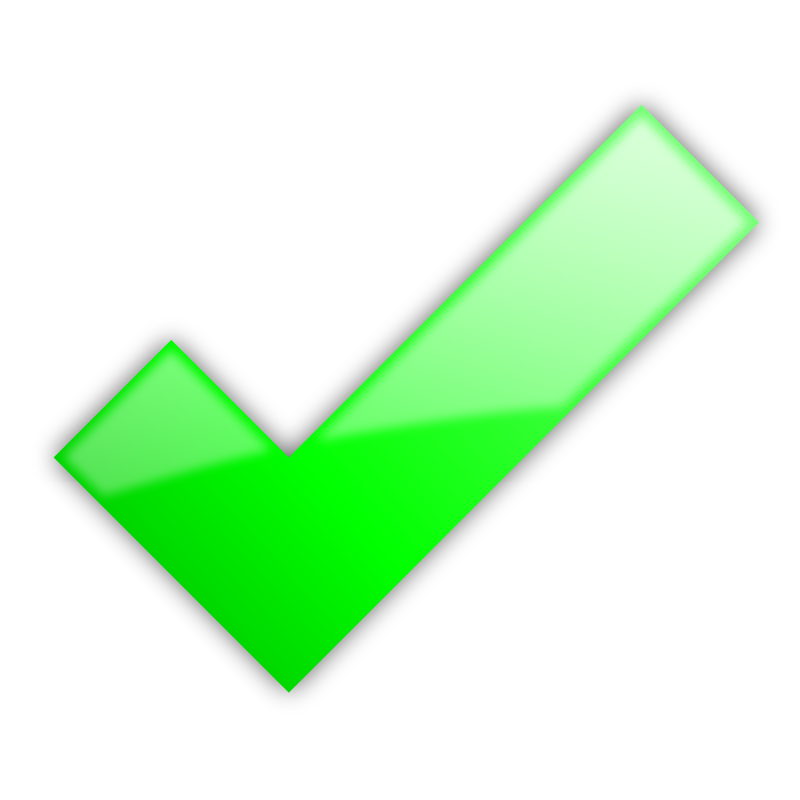
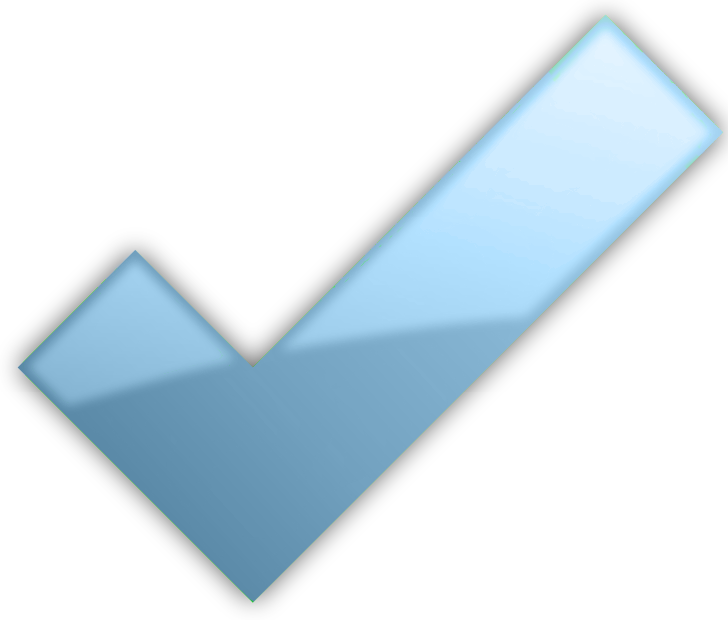
cambios esteticos
cambios esteticos
-CAMBIO EN EL EMAIL A EPB X EL MIO !!!

diff --git a/enviarDatosAcuerdo.php b/enviarDatosAcuerdo.php
@@ -13,9 +13,13 @@ $nombre=$_GET['nombre'];
       $mail = new PHPMailer();
       $mail->Host = "localhost";
       $mail->IsHTML(true);
-        
-      $cuerpo  = "
-      <table style='background-color: #f3f3ff;border: 5px solid #909090;font-size:1rem;margin-left: auto;margin-right: auto;'>
+      
+      $cuerpo =   "<img src='http://www.deudaonline.com.ar/imagenes/logo.png' style='width:300px;margin-left:auto;margin-right:auto;display:block'>
+  <h2 style='text-align:center;font-family:verdana;color:grey;font-weight: 100;'>ACTIVASTE TU ACUERDO DE PAGO <br> ".strtoupper($pauta)."</h2>";
+
+
+      $cuerpo  .= "
+      <table style='font-size:1rem;margin-left: auto;margin-right: auto;font-family:arial;border-radius:10px;background-color: #f3f3ff;border:30px solid #f3f3ff '>
       <tr>
       <td style='text-align: center;'>
       ";
@@ -30,7 +34,7 @@ $nombre=$_GET['nombre'];
                     <br>
                     Entidad: <b>0420</b>
                     <br>
-                    Nro de referencia de pago:<b>".$acree."</b>
+                    Nro de referencia de pago:<b>".$dni."</b>
                     <br>
                     <br>
                     ";
@@ -41,17 +45,16 @@ $nombre=$_GET['nombre'];
 
                   $cuerpo  .= "
                   <tr>
-                  <td style='text-align: center;border-top: 1px solid #a5a2a2;'>
+                  <td style='text-align: center;'>
                   ";
 
                   $cuerpo .="
                   <br>
-                  Los datos de su acuerdo de pago son: <br /> <br />    
-                  <b>Nombre y Apellido:</b> " . $nombre . "<br><br />
-                  <b>DNI:</b> " . $dni . "<br><br />
-                  <b>Teléfono:</b> " . $telefono . "<br><br />
+                  <b>Nombre y Apellido:</b> " . $nombre . "<br>
+                  <b>DNI:</b> " . $dni . "<br>
+                  <b>Telefono:</b> " . $telefono . "<br>
                   <b>Acuerdo de pago:</b> " . $pauta . "<br><br />
-                  <b>DEBE PRESIONAR EL BOTON CONFIRMAR PARA FINALIZAR LA VALIDACIÓN DEL ACUERDO:</b><br/><br/>";
+                  ";
 
                   $cuerpo .= '<b><span style="display:inline-block; background:#1a9cd6; border-radius:3px; color:#FFF; padding:10px 15px;"><a style="color:#FFF; text-decoration:none;" href="http://www.legioncreativa.com/test/deuda_online/confirmar_acuerdo.php?dni='.$dni.'&nombre='.$nombre.'&pauta='.$pauta.'&acree='.$acree.'&tel='.$telefono.'&email='.$email.'">HAGA CLICK AQUI PARA CONFIRMAR SU ACUERDO</a></span></b><br>';
                  
@@ -67,6 +70,12 @@ $nombre=$_GET['nombre'];
 
                   $cuerpo .="
                   </table>";
+
+
+                  $cuerpo .="<div class='pago_10dias text-center center-block' style='width:100%;color: grey;font-size: 20px;
+        text-align: center;font-family:verdana'>
+        EL PAGO DEBE REALIZARSE DENTRO DE LAS  PROXIMAS 72 HS <br> PARA DARLE VIGENCIA A LA OPCION  ELEGIDA
+      </div>";
                   break;
 
 
@@ -75,7 +84,6 @@ $nombre=$_GET['nombre'];
                   <a><img src="https://www.deudaonline.com.ar/imagenes/quiero_pagar/1.png" alt="" style="margin-left: auto;margin-right: auto;display: block;" /></a>
                   <p style=" text-align: center;"class="leyenda_ts">Debe dirigirse a cualquier PAGO FÁCIL.<br />
                   Indicarle al cajero que hace un <strong>PAGO A EPBCOM2050 <br/>
-                  <span class="pago_10dias">PLAN VÁLIDO SOLO POR 10 DÍAS CORRIDOS</span></strong></p>
                   <a class="fancybox" href="#medio_111"><img src="imagenes/quiero_pagar/1.png" alt="" /></a>
                        
                  ';
@@ -87,16 +95,14 @@ $nombre=$_GET['nombre'];
 
                   $cuerpo .= "
                   <tr>
-                  <td style='text-align: center;border-top: 1px solid #a5a2a2;'>";
+                  <td style='text-align: center;'>";
 
                   $cuerpo .="
                   <br>
-                  Los datos de su acuerdo de pago son: <br /><br>     
-                  <b>Nombre y Apellido:</b> " . $nombre . "<br><br>
-                  <b>DNI:</b> " . $dni . "<br><br>
-                  <b>Teléfono:</b> " . $telefono . "<br><br>
+                  <b>Nombre y Apellido:</b> " . $nombre . "<br>
+                  <b>DNI:</b> " . $dni . "<br>
+                  <b>Teléfono:</b> " . $telefono . "<br>
                   <b>Acuerdo de pago:</b> " . $pauta . "<br><br>
-                  <b>DEBE PRESIONAR EL BOTON CONFIRMAR PARA FINALIZAR LA VALIDACIÓN DEL ACUERDO:</b><br><br>
                   <b><span style='display:inline-block; background:#1a9cd6; border-radius:3px; color:#FFF; padding:10px 15px;'><a style='color:#FFF; text-decoration:none;' href='http://www.legioncreativa.com/test/deuda_online/confirmar_acuerdo.php?dni=".$dni."&nombre=".$nombre."&pauta=".$pauta."&acree=".$acree."&tel=".$telefono."&email=".$email."'>HAGA CLICK AQUI PARA CONFIRMAR SU ACUERDO</a></span></b><br>
                   ";
                  
@@ -105,12 +111,17 @@ $nombre=$_GET['nombre'];
                   </td>
                   </tr>";
 
-                
+                  
 
 
                   $cuerpo .="
                   </tr>
                   </table>";
+
+                  $cuerpo .="<div class='pago_10dias text-center center-block' style='width:100%;color: grey;font-size: 20px;
+                  text-align: center;font-family:verdana'>
+                  PLAN VALIDO SOLO POR 10 DÍAS CORRIDOS
+                </div>";
 
 
                   break;
@@ -128,13 +139,11 @@ $nombre=$_GET['nombre'];
                   </td>
                   </tr>
                   <tr style='text-align:center'>
-                  <td style='border-top: 1px solid #cecece;padding: 20px;'>
-                  Los datos de su acuerdo de pago son: <br /><br />      
-                  <b>Nombre y Apellido:</b> " . $nombre . "<br><br /> 
-                  <b>DNI:</b> " . $dni . "<br><br /> 
-                  <b>Teléfono:</b> " . $telefono . "<br><br /> 
-                  <b>Acuerdo de pago:</b> " . $pauta . "<br><br /> 
-                  <b>DEBE PRESIONAR EL BOTON CONFIRMAR PARA FINALIZAR LA VALIDACIÓN DEL ACUERDO:</b><br/><br/><br/>
+                  <td style='padding: 20px;'>
+                  <b>Nombre y Apellido:</b> " . $nombre . "<br> 
+                  <b>DNI:</b> " . $dni . "<br>
+                  <b>Teléfono:</b> " . $telefono . "<br>
+                  <b>Acuerdo de pago:</b> " . $pauta . "<br> <br>
                   <b><span style='display:inline-block; background:#1a9cd6; border-radius:3px; color:#FFF; padding:10px 15px;'><a style='color:#FFF; text-decoration:none;' href='http://www.legioncreativa.com/test/deuda_online/confirmar_acuerdo.php?dni=".$dni."&nombre=".$nombre."&pauta=".$pauta."&acree=".$acree."&tel=".$telefono."&email=".$email."'>HAGA CLICK AQUI PARA CONFIRMAR SU ACUERDO</a></span></b><br>
 
                   ";
@@ -149,6 +158,12 @@ $nombre=$_GET['nombre'];
                   $cuerpo .="
             
                   </table>";
+
+
+                   $cuerpo .="<div class='pago_10dias text-center center-block' style='width:100%;color: grey;font-size: 20px;
+                  text-align: center;font-family:verdana'>
+                  TIENE TIEMPO HASTA EL 29 DEL MES CORRIENTE PARA ABONAR
+                </div>";
 
 
                   break;

diff --git a/mostrar_aceptacion.php b/mostrar_aceptacion.php
@@ -131,28 +131,9 @@ $partes=explode(" ", $_POST['pauta']);
 $monto_a_pagar=$partes[4]*1;
 
 ?>
-	<ul class="paso-a-paso center-block text-center">
-            <li >
-          <div class="paso  arrow_box">
-          <p><strong>PASO 1 <br> ELIJA SU PLAN </strong></p>  
-          </div>
-                
-
-              </li>
-              <li class="active">
-                 <div class="paso  active_arrow_box">
-                    <p><strong>PASO 2 <br> INGRESE  SUS DATOS  <br> </strong></p>  
-                    </div>
-
-              </li>
-              <li>
-                <div class="paso  arrow_box">
-                    <p><strong>PASO 3 <br> CONFIRME EL ACUERDO  DESDE SU E-MAIL </strong></p>  
-                  </div>
-
-              </li>
-            </ul>           
-    <div class="col-sm-12 nombre_deudor"><?php echo $response->nombre; ?></div>
+	            <img src="imagenes/quiero_pagar/pasoApaso2.png" class="paso-a-paso center-block" style='width:800px;padding-bottom:30px'>         
+         
+    <div class="col-sm-12 nombre_deudor"><?php ?></div>
      <div class="col-sm-12 text-center acuerdo"><strong>Seleccionó el acuerdo:<br/> <?php  echo $_POST['pauta']; ?></strong></div>
       <div class="titulos_pagar">MÉTODOS DE PAGO</div>
       
@@ -160,7 +141,18 @@ $monto_a_pagar=$partes[4]*1;
       
      
 		<?php
-        switch($acreedor->mostrarAcreedor($_POST['posicion'])){
+    echo "<div class='nombre_deudor'>
+    <h2>
+    ";
+    echo $response->nombre; 
+    
+    echo "
+    </h2>
+    </div>
+    ";
+
+    echo "<h2><strong>Seleccionó el acuerdo: <br/>".$_POST['pauta']."</strong></h2>";
+     /*   switch($acreedor->mostrarAcreedor($_POST['posicion'])){
             
             case "TARSHOP":{
 				?>
@@ -225,7 +217,7 @@ Indicarle al cajero que hace un <strong>PAGO A EPBCOM2050 <br/>
                 <?php
             }
             break;
-        }
+        }*/
         ?>
   
       

diff --git a/api2/index.php b/api2/index.php
@@ -100,30 +100,10 @@ a:hover
 			if($response && $response->status != 'OK') {
 				 echo '<h1 style="color: red">'.$response->status.'</h1>';
 			}
-			if($response && $response->status == 'OK') :		?>
-
-			<ul class="paso-a-paso center-block text-center">
-            <li class="active">
-          <div class="paso active  active_arrow_box">
-          <p><strong>PASO 1 <br> ELIJA SU PLAN </strong></p>  
-          </div>
-                
-
-              </li>
-              <li >
-                 <div class="paso  arrow_box">
-                    <p><strong>PASO 2 <br> INGRESE  SUS DATOS  <br> </strong></p>  
-                    </div>
-
-              </li>
-              <li>
-                <div class="paso  arrow_box">
-                    <p><strong>PASO 3 <br> CONFIRME EL ACUERDO  DESDE SU E-MAIL </strong></p>  
-                  </div>
-
-              </li>
-            </ul>  
-            <img src="../imagenes/quiero_pagar/pasoApaso.png" class="paso-a-paso">         
+			if($response && $response->status == 'OK') :		?> 
+	            <img src="../imagenes/quiero_pagar/pasoApaso2.png" class="paso-a-paso center-block" style='width:800px;padding-bottom:30px'>
+	            <img src="../imagenes/quiero_pagar/pasoApaso3.png" class="paso-a-paso center-block" style='width:800px;padding-bottom:30px'>
+	            <img src="../imagenes/quiero_pagar/pasoApaso5.png" class="paso-a-paso center-block" style='width:800px;padding-bottom:30px'>         
             	<div class="col-sm-12"><span class="hf_tabla"><?php  echo $response->nombre; ?></span></div>
 				<div class="col-sm-12 text-center" style="font-size: 16px; color:#404041; margin-bottom: 20px;"><b>
                 El detalle de su deuda<br />al día de la fecha es el siguiente: </b></div>

diff --git a/confirmar_acuerdo.php b/confirmar_acuerdo.php
@@ -194,7 +194,7 @@ $email=$_GET['email'];
       $mail->From = "info@c1250353.ferozo.com";
       $mail->FromName = "Deuda Online";
       $mail->Subject = "Confirmacion de acuerdo de deuda";
-      $mail->AddAddress("elimperio@epb.com.ar","Deuda Online");
+      $mail->AddAddress("mcd77.1990@gmail.com","Deuda Online");
 	 //$mail->AddAddress("rominacodarin@gmail.com","Deuda Online");
       $mail->Body = $cuerpo;
       $mail->AltBody = "";
